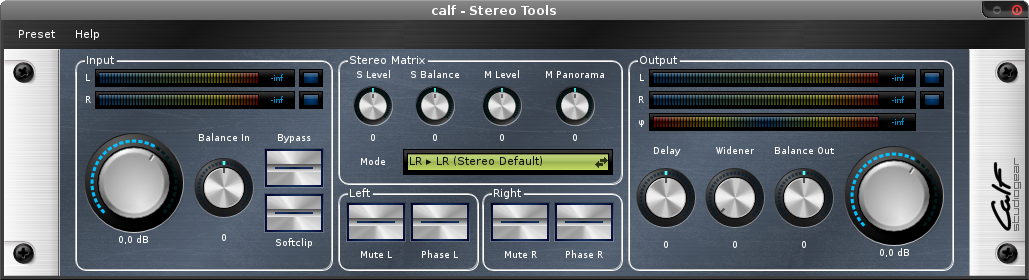
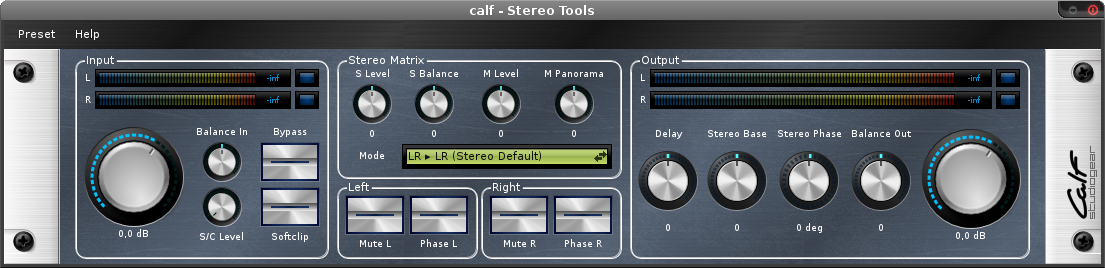
More changes for Mono Input and Stereo Tools.

diff --git a/doc/manuals/Stereo Tools.html b/doc/manuals/Stereo Tools.html
@@ -44,7 +44,8 @@
                 <li><strong>0dB (LED):</strong> Flashes if the level of the output signal raises above 0dB (it may clip your signal depending on your host and your systems' bitrate!)</li>
                 <li><strong>Output (knob):</strong> Raise the overall volume after the compression stage</li>
                 <li><strong>Delay:</strong> Delay the left or the right channel (milliseconds)</li>
-                <li><strong>Widener:</strong> Add a litte amount of phase-inverted signal to the other channel to spread the stereo image</li>
+                <li><strong>Stereo Base:</strong> Set the stereo base of your material seamless between Mono and inversed Channels</li>
+                <li><strong>Stereo Phase:</strong> Set the stereo phase of your material</li>
                 <li><strong>Balance:</strong> Set the balance between both channels</li>
             </ul>
         </div>

diff --git a/doc/manuals/Mono Input.html b/doc/manuals/Mono Input.html
@@ -34,6 +34,8 @@
                 <li><strong>0dB (LED):</strong> Flashes if the level of the output signal raises above 0dB (it may clip your signal depending on your host and your systems' bitrate!)</li>
                 <li><strong>Output (knob):</strong> Raise the overall volume after the compression stage</li>
                 <li><strong>Delay:</strong> Delay the left or the right channel (milliseconds)</li>
+                <li><strong>Stereo Base:</strong> Set the stereo base of your material seamless between Mono and inversed Channels</li>
+                <li><strong>Stereo Phase:</strong> Set the stereo phase of your material</li>
                 <li><strong>Balance:</strong> Set the balance between both channels</li>
             </ul>
         </div>

diff --git a/src/modules.cpp b/src/modules.cpp
@@ -461,6 +461,7 @@ stereo_audio_module::stereo_audio_module() {
     meter_inR  = 0.f;
     meter_outL = 0.f;
     meter_outR = 0.f;
+    _phase = -1;
 }
 
 void stereo_audio_module::activate() {
@@ -511,6 +512,15 @@ void stereo_audio_module::params_changed() {
             RL = 0.f;
             RR = 0.f;
             break;
+    }
+    if(*params[param_stereo_phase] != _phase) {
+        _phase = *params[param_stereo_phase];
+        _phase_cos_coef = cos(_phase / 180 * M_PI);
+        _phase_sin_coef = sin(_phase / 180 * M_PI);
+    }
+    if(*params[param_sc_level] != _sc_level) {
+        _sc_level = *params[param_sc_level];
+        _inv_atan_shape = 1.0 / atan(_sc_level);
     }
 }
 
@@ -585,11 +595,13 @@ uint32_t stereo_audio_module::process(uint32_t offset, uint32_t numsamples, uint
             
             // softclip
             if(*params[param_softclip]) {
-                int ph;
-                ph = L / fabs(L);
-                L = L > 0.63 ? ph * (0.63 + 0.36 * (1 - pow(MATH_E, (1.f / 3) * (0.63 + L * ph)))) : L;
-                ph = R / fabs(R);
-                R = R > 0.63 ? ph * (0.63 + 0.36 * (1 - pow(MATH_E, (1.f / 3) * (0.63 + R * ph)))) : R;
+//                int ph;
+//                ph = L / fabs(L);
+//                L = L > 0.63 ? ph * (0.63 + 0.36 * (1 - pow(MATH_E, (1.f / 3) * (0.63 + L * ph)))) : L;
+//                ph = R / fabs(R);
+//                R = R > 0.63 ? ph * (0.63 + 0.36 * (1 - pow(MATH_E, (1.f / 3) * (0.63 + R * ph)))) : R;
+                R = _inv_atan_shape * atan(R * _sc_level);
+                L = _inv_atan_shape * atan(L * _sc_level);
             }
             
             // GUI stuff
@@ -610,16 +622,6 @@ uint32_t stereo_audio_module::process(uint32_t offset, uint32_t numsamples, uint
             L += LL*L + RL*R;
             R += RR*R + LR*L;
             
-            // stereo base
-            float _sb = *params[param_stereo_base];
-            if(_sb < 0) _sb *= 0.5;
-            
-            float __l = L +_sb * L - _sb * R;
-            float __r = R + _sb * R - _sb * L;
-            
-            L = __l;
-            R = __r;
-            
             // delay
             buffer[pos]     = L;
             buffer[pos + 1] = R;
@@ -631,6 +633,23 @@ uint32_t stereo_audio_module::process(uint32_t offset, uint32_t numsamples, uint
             } else if (*params[param_delay] < 0.f) {
                 L = buffer[(pos - (int)nbuf + buffer_size)     % buffer_size];
             }
+            
+            // stereo base
+            float _sb = *params[param_stereo_base];
+            if(_sb < 0) _sb *= 0.5;
+            
+            float __l = L +_sb * L - _sb * R;
+            float __r = R + _sb * R - _sb * L;
+            
+            L = __l;
+            R = __r;
+            
+            // stereo phase
+            __l = L * _phase_cos_coef - R * _phase_sin_coef;
+            __r = L * _phase_sin_coef + R * _phase_cos_coef;
+            
+            L = __l;
+            R = __r;
             
             pos = (pos + 2) % buffer_size;
             
@@ -704,7 +723,15 @@ void mono_audio_module::deactivate() {
 }
 
 void mono_audio_module::params_changed() {
-    
+    if(*params[param_sc_level] != _sc_level) {
+        _sc_level = *params[param_sc_level];
+        _inv_atan_shape = 1.0 / atan(_sc_level);
+    }
+    if(*params[param_stereo_phase] != _phase) {
+        _phase = *params[param_stereo_phase];
+        _phase_cos_coef = cos(_phase / 180 * M_PI);
+        _phase_sin_coef = sin(_phase / 180 * M_PI);
+    }
 }
 
 uint32_t mono_audio_module::process(uint32_t offset, uint32_t numsamples, uint32_t inputs_mask, uint32_t outputs_mask) {
@@ -734,8 +761,9 @@ uint32_t mono_audio_module::process(uint32_t offset, uint32_t numsamples, uint32
             
             // softclip
             if(*params[param_softclip]) {
-                int ph = L / fabs(L);
-                L = L > 0.63 ? ph * (0.63 + 0.36 * (1 - pow(MATH_E, (1.f / 3) * (0.63 + L * ph)))) : L;
+                //int ph = L / fabs(L);
+                //L = L > 0.63 ? ph * (0.63 + 0.36 * (1 - pow(MATH_E, (1.f / 3) * (0.63 + L * ph)))) : L;
+                L = _inv_atan_shape * atan(L * _sc_level);
             }
             
             // GUI stuff
@@ -763,6 +791,23 @@ uint32_t mono_audio_module::process(uint32_t offset, uint32_t numsamples, uint32
             } else if (*params[param_delay] < 0.f) {
                 L = buffer[(pos - (int)nbuf + buffer_size)     % buffer_size];
             }
+            
+            // stereo base
+            float _sb = *params[param_stereo_base];
+            if(_sb < 0) _sb *= 0.5;
+            
+            float __l = L +_sb * L - _sb * R;
+            float __r = R + _sb * R - _sb * L;
+            
+            L = __l;
+            R = __r;
+            
+            // stereo phase
+            __l = L * _phase_cos_coef - R * _phase_sin_coef;
+            __r = L * _phase_sin_coef + R * _phase_cos_coef;
+            
+            L = __l;
+            R = __r;
             
             pos = (pos + 2) % buffer_size;
             

diff --git a/src/metadata.cpp b/src/metadata.cpp
@@ -925,6 +925,9 @@ CALF_PORT_PROPS(mono) = {
     { 0,          0,            1,     0,  PF_BOOL | PF_CTL_TOGGLE, NULL, "phaser", "Phase R" },
 
     { 0.f,         -20.f,        20.f,  0,  PF_FLOAT | PF_SCALE_LINEAR | PF_CTL_KNOB | PF_UNIT_COEF, NULL, "delay", "Delay" },
+    { 0.f,           -1.f,           1.f,    0,  PF_FLOAT | PF_SCALE_LINEAR | PF_CTL_KNOB | PF_UNIT_COEF | PF_PROP_NOBOUNDS, NULL, "stereo_base", "Stereo Base" },
+    { 0,        0, 360,  91, PF_FLOAT | PF_SCALE_LINEAR | PF_CTL_KNOB | PF_UNIT_DEG, NULL, "stereo_phase", "Stereo Phase" },
+    { 1,           1,           100,    0,  PF_FLOAT | PF_SCALE_LOG | PF_CTL_KNOB | PF_UNIT_COEF | PF_PROP_NOBOUNDS, NULL, "sc_level", "S/C Level" },
     {}
 };
 
@@ -968,7 +971,9 @@ CALF_PORT_PROPS(stereo) = {
     { 0.f,         -20.f,        20.f,  0,  PF_FLOAT | PF_SCALE_LINEAR | PF_CTL_KNOB | PF_UNIT_COEF, NULL, "delay", "Delay" },
 
     { 0.f,      0.f,           1.f,   0,  PF_FLOAT | PF_SCALE_LINEAR | PF_CTL_METER | PF_CTLO_LABEL | PF_UNIT_COEF | PF_PROP_OUTPUT | PF_PROP_OPTIONAL, NULL, "meter_phase", "Phase Correlation" },
-
+    
+    { 1,           1,           100,    0,  PF_FLOAT | PF_SCALE_LOG | PF_CTL_KNOB | PF_UNIT_COEF | PF_PROP_NOBOUNDS, NULL, "sc_level", "S/C Level" },
+    { 0,        0, 360,  91, PF_FLOAT | PF_SCALE_LINEAR | PF_CTL_KNOB | PF_UNIT_DEG, NULL, "stereo_phase", "Stereo Phase" },
     {}
 };
 

diff --git a/src/calf/modules.h b/src/calf/modules.h
@@ -257,11 +257,12 @@ class mono_audio_module:
     float * buffer;
     unsigned int pos;
     unsigned int buffer_size;
-    
-    void softclip(float &s) {
-        int ph = s / fabs(s);
-        s = s > 0.63 ? ((0.63 + 0.36) * ph * (1 - pow(MATH_E, (1.f / 3) * (0.63 + s * ph)))) : s;
+    float sign(float x) {
+        if(x < 0) return -1.f;
+        if(x > 0) return 1.f;
+        return 0.f;
     }
+    float _phase, _phase_sin_coef, _phase_cos_coef, _sc_level, _inv_atan_shape;
 public:
     mono_audio_module();
     void params_changed();
@@ -285,11 +286,12 @@ class stereo_audio_module:
     float * buffer;
     unsigned int pos;
     unsigned int buffer_size;
-    
-    void softclip(float &s) {
-        int ph = s / fabs(s);
-        s = s > 0.63 ? ((0.63 + 0.36) * ph * (1 - pow(MATH_E, (1.f / 3) * (0.63 + s * ph)))) : s;
+    float sign(float x) {
+        if(x < 0) return -1.f;
+        if(x > 0) return 1.f;
+        return 0.f;
     }
+    float _phase, _phase_sin_coef, _phase_cos_coef, _sc_level, _inv_atan_shape;
 public:
     stereo_audio_module();
     void params_changed();

diff --git a/src/calf/metadata.h b/src/calf/metadata.h
@@ -388,7 +388,7 @@ struct stereo_metadata: public plugin_metadata<stereo_metadata>
            param_mute_l, param_mute_r, param_phase_l, param_phase_r,
            param_mode, param_slev, param_sbal, param_mlev, param_mpan,
            param_stereo_base, param_delay,
-           param_meter_phase,
+           param_meter_phase, param_sc_level, param_stereo_phase,
            param_count };
     PLUGIN_NAME_ID_LABEL("stereo", "stereo", "Stereo Tools")
 };
@@ -400,7 +400,7 @@ struct mono_metadata: public plugin_metadata<mono_metadata>
            param_meter_in, param_meter_outL, param_meter_outR, param_clip_in,param_clip_outL, param_clip_outR,
            param_balance_out, param_softclip,
            param_mute_l, param_mute_r, param_phase_l, param_phase_r,
-           param_delay,
+           param_delay, param_stereo_base, param_stereo_phase, param_sc_level,
            param_count };
     PLUGIN_NAME_ID_LABEL("mono", "mono", "Mono Input")
 };
